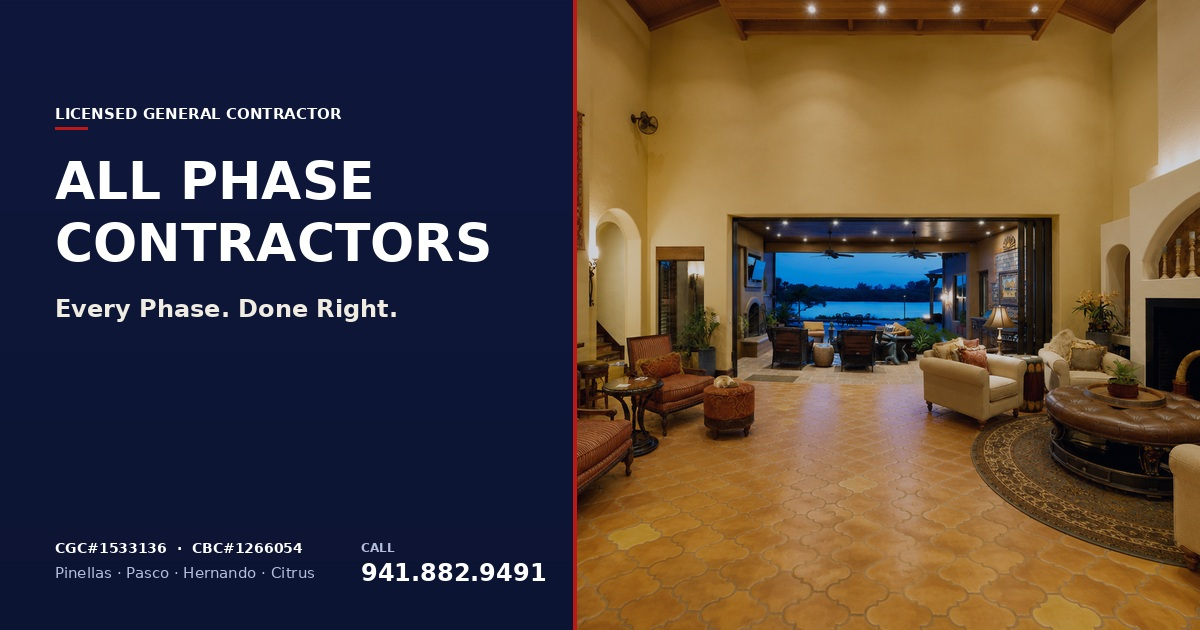
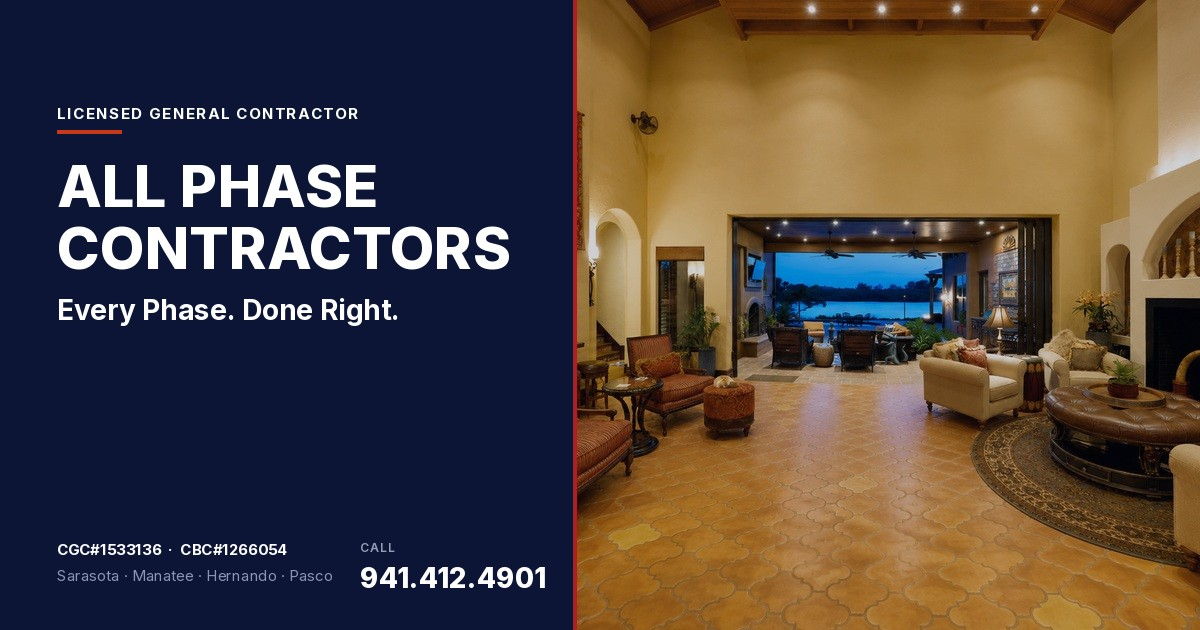
Add Open Graph tags to all 5 LPs; fix wrong phone number on brand share card
- /lp/kitchen-bath/, /lp/sarasota-roofing/, /lp/metal-roof/,
  /lp/storm-damage/ and /lp/general-gc/ had NO og tags at all — every
  share and boosted link rendered a bare text card with no image
- Rebuild images/og-image.jpg: it had 941.882.9491 baked into the pixels
  (the site uses 941-412-4901 in 99 places) and listed Pinellas + Citrus
- Add images/og-roofing.jpg (1200x630) for the three roofing LPs

Changed region(s): [[0.0308, 0.1508, 0.4317, 0.4524], [0.0308, 0.8444, 0.4625, 0.9349], [0.0308, 0.4524, 0.3392, 0.5127]]

diff --git a/lp/sarasota-roofing/index.html b/lp/sarasota-roofing/index.html
@@ -7,6 +7,21 @@
 <title>Metal &amp; Tile Roofing — Sarasota, Siesta Key, Longboat | All Phase Contractors</title>
 <meta name="description" content="Wind-rated metal and tile roofing for Sarasota's coastal homes. Licensed general contractor (CGC#1533136 · CBC#1266054) serving Siesta Key, Longboat Key, Bird Key, Palmer Ranch, Lakewood Ranch, Osprey, Nokomis and Venice. Free on-site estimate." />
 <link rel="canonical" href="https://allphasecontractorsfl.com/lp/sarasota-roofing/" />
+
+<!-- Open Graph / social share -->
+<meta property="og:type" content="website" />
+<meta property="og:site_name" content="All Phase Contractors" />
+<meta property="og:url" content="https://allphasecontractorsfl.com/lp/sarasota-roofing/" />
+<meta property="og:title" content="Roof Replacement — Sarasota &amp; Manatee | All Phase Contractors" />
+<meta property="og:description" content="Roof replacement and repair across Sarasota, Manatee, Hernando and Pasco. Licensed roofing, wind-rated systems. Free inspection — 941-412-4901." />
+<meta property="og:image" content="https://allphasecontractorsfl.com/images/og-roofing.jpg" />
+<meta property="og:image:width" content="1200" />
+<meta property="og:image:height" content="630" />
+<meta property="og:locale" content="en_US" />
+<meta name="twitter:card" content="summary_large_image" />
+<meta name="twitter:title" content="Roof Replacement — Sarasota &amp; Manatee | All Phase Contractors" />
+<meta name="twitter:description" content="Roof replacement and repair across Sarasota, Manatee, Hernando and Pasco. Licensed roofing, wind-rated systems. Free inspection — 941-412-4901." />
+<meta name="twitter:image" content="https://allphasecontractorsfl.com/images/og-roofing.jpg" />
 <link rel="preconnect" href="https://fonts.googleapis.com" />
 <link rel="preconnect" href="https://fonts.gstatic.com" crossorigin />
 <link href="https://fonts.googleapis.com/css2?family=Inter:wght@300;400;600;700;800&display=swap" rel="stylesheet" />

diff --git a/lp/general-gc/index.html b/lp/general-gc/index.html
@@ -7,6 +7,21 @@
 <title>One Licensed Contractor. Every Phase. | All Phase Contractors</title>
 <meta name="description" content="Concrete to countertops, under one CGC and CBC license. No juggling separate crews. No finger-pointing between subs. One team, one contract, one schedule —" />
 <link rel="canonical" href="https://allphasecontractorsfl.com/lp/general-gc/" />
+
+<!-- Open Graph / social share -->
+<meta property="og:type" content="website" />
+<meta property="og:site_name" content="All Phase Contractors" />
+<meta property="og:url" content="https://allphasecontractorsfl.com/lp/general-gc/" />
+<meta property="og:title" content="Licensed General Contractor — Every Trade In-House | All Phase Contractors" />
+<meta property="og:description" content="Concrete to countertops under one CGC and CBC license. Remodels, additions, new construction across Sarasota, Manatee, Hernando and Pasco. 941-412-4901." />
+<meta property="og:image" content="https://allphasecontractorsfl.com/images/og-image.jpg" />
+<meta property="og:image:width" content="1200" />
+<meta property="og:image:height" content="630" />
+<meta property="og:locale" content="en_US" />
+<meta name="twitter:card" content="summary_large_image" />
+<meta name="twitter:title" content="Licensed General Contractor — Every Trade In-House | All Phase Contractors" />
+<meta name="twitter:description" content="Concrete to countertops under one CGC and CBC license. Remodels, additions, new construction across Sarasota, Manatee, Hernando and Pasco. 941-412-4901." />
+<meta name="twitter:image" content="https://allphasecontractorsfl.com/images/og-image.jpg" />
 <link rel="preconnect" href="https://fonts.googleapis.com" />
 <link rel="preconnect" href="https://fonts.gstatic.com" crossorigin />
 <link href="https://fonts.googleapis.com/css2?family=Inter:wght@300;400;600;700;800&display=swap" rel="stylesheet" />

diff --git a/lp/storm-damage/index.html b/lp/storm-damage/index.html
@@ -7,6 +7,21 @@
 <title>Storm Damage Roof Repair | All Phase Contractors</title>
 <meta name="description" content="Free storm-damage roof inspection in Sarasota, Manatee, Hernando & Pasco. Wind-rated roofing from a licensed general contractor. Same-day response — repair or replace, we'll tell you straight." />
 <link rel="canonical" href="https://allphasecontractorsfl.com/lp/storm-damage/" />
+
+<!-- Open Graph / social share -->
+<meta property="og:type" content="website" />
+<meta property="og:site_name" content="All Phase Contractors" />
+<meta property="og:url" content="https://allphasecontractorsfl.com/lp/storm-damage/" />
+<meta property="og:title" content="Free Storm-Damage Roof Inspection | All Phase Contractors" />
+<meta property="og:description" content="Missing shingles, leaks or wind damage? Free inspection and a written photo report, same-day response. Licensed roofing — 941-412-4901." />
+<meta property="og:image" content="https://allphasecontractorsfl.com/images/og-roofing.jpg" />
+<meta property="og:image:width" content="1200" />
+<meta property="og:image:height" content="630" />
+<meta property="og:locale" content="en_US" />
+<meta name="twitter:card" content="summary_large_image" />
+<meta name="twitter:title" content="Free Storm-Damage Roof Inspection | All Phase Contractors" />
+<meta name="twitter:description" content="Missing shingles, leaks or wind damage? Free inspection and a written photo report, same-day response. Licensed roofing — 941-412-4901." />
+<meta name="twitter:image" content="https://allphasecontractorsfl.com/images/og-roofing.jpg" />
 <link rel="preconnect" href="https://fonts.googleapis.com" />
 <link rel="preconnect" href="https://fonts.gstatic.com" crossorigin />
 <link href="https://fonts.googleapis.com/css2?family=Inter:wght@300;400;600;700;800&display=swap" rel="stylesheet" />

diff --git a/lp/kitchen-bath/index.html b/lp/kitchen-bath/index.html
@@ -7,6 +7,21 @@
 <title>Kitchen & Bathroom Remodels | All Phase Contractors</title>
 <meta name="description" content="Demo, plumbing, electrical, tile, cabinets, countertops, finish carpentry — all our own crew, all under one license. No juggling three separate quotes. One" />
 <link rel="canonical" href="https://allphasecontractorsfl.com/lp/kitchen-bath/" />
+
+<!-- Open Graph / social share -->
+<meta property="og:type" content="website" />
+<meta property="og:site_name" content="All Phase Contractors" />
+<meta property="og:url" content="https://allphasecontractorsfl.com/lp/kitchen-bath/" />
+<meta property="og:title" content="Kitchen &amp; Bathroom Remodels | All Phase Contractors" />
+<meta property="og:description" content="Kitchen and bathroom remodels across Sarasota, Manatee, Hernando and Pasco. Every trade in-house under one license. Free estimate — 941-412-4901." />
+<meta property="og:image" content="https://allphasecontractorsfl.com/images/og-kitchen-bath.jpg" />
+<meta property="og:image:width" content="1200" />
+<meta property="og:image:height" content="630" />
+<meta property="og:locale" content="en_US" />
+<meta name="twitter:card" content="summary_large_image" />
+<meta name="twitter:title" content="Kitchen &amp; Bathroom Remodels | All Phase Contractors" />
+<meta name="twitter:description" content="Kitchen and bathroom remodels across Sarasota, Manatee, Hernando and Pasco. Every trade in-house under one license. Free estimate — 941-412-4901." />
+<meta name="twitter:image" content="https://allphasecontractorsfl.com/images/og-kitchen-bath.jpg" />
 <link rel="preconnect" href="https://fonts.googleapis.com" />
 <link rel="preconnect" href="https://fonts.gstatic.com" crossorigin />
 <link href="https://fonts.googleapis.com/css2?family=Inter:wght@300;400;600;700;800&display=swap" rel="stylesheet" />

diff --git a/lp/metal-roof/index.html b/lp/metal-roof/index.html
@@ -7,6 +7,21 @@
 <title>Metal Roof Installation | All Phase Contractors</title>
 <meta name="description" content="40–70 year lifespan. Engineered for 140+ mph winds. Standing seam and stone-coated steel, installed by a licensed general contractor. Free on-site estimate." />
 <link rel="canonical" href="https://allphasecontractorsfl.com/lp/metal-roof/" />
+
+<!-- Open Graph / social share -->
+<meta property="og:type" content="website" />
+<meta property="og:site_name" content="All Phase Contractors" />
+<meta property="og:url" content="https://allphasecontractorsfl.com/lp/metal-roof/" />
+<meta property="og:title" content="Standing Seam Metal Roofing | All Phase Contractors" />
+<meta property="og:description" content="Wind-rated standing seam metal roofs built for Florida coastal weather. Licensed general contractor. Free estimate — 941-412-4901." />
+<meta property="og:image" content="https://allphasecontractorsfl.com/images/og-roofing.jpg" />
+<meta property="og:image:width" content="1200" />
+<meta property="og:image:height" content="630" />
+<meta property="og:locale" content="en_US" />
+<meta name="twitter:card" content="summary_large_image" />
+<meta name="twitter:title" content="Standing Seam Metal Roofing | All Phase Contractors" />
+<meta name="twitter:description" content="Wind-rated standing seam metal roofs built for Florida coastal weather. Licensed general contractor. Free estimate — 941-412-4901." />
+<meta name="twitter:image" content="https://allphasecontractorsfl.com/images/og-roofing.jpg" />
 <link rel="preconnect" href="https://fonts.googleapis.com" />
 <link rel="preconnect" href="https://fonts.gstatic.com" crossorigin />
 <link href="https://fonts.googleapis.com/css2?family=Inter:wght@300;400;600;700;800&display=swap" rel="stylesheet" />
